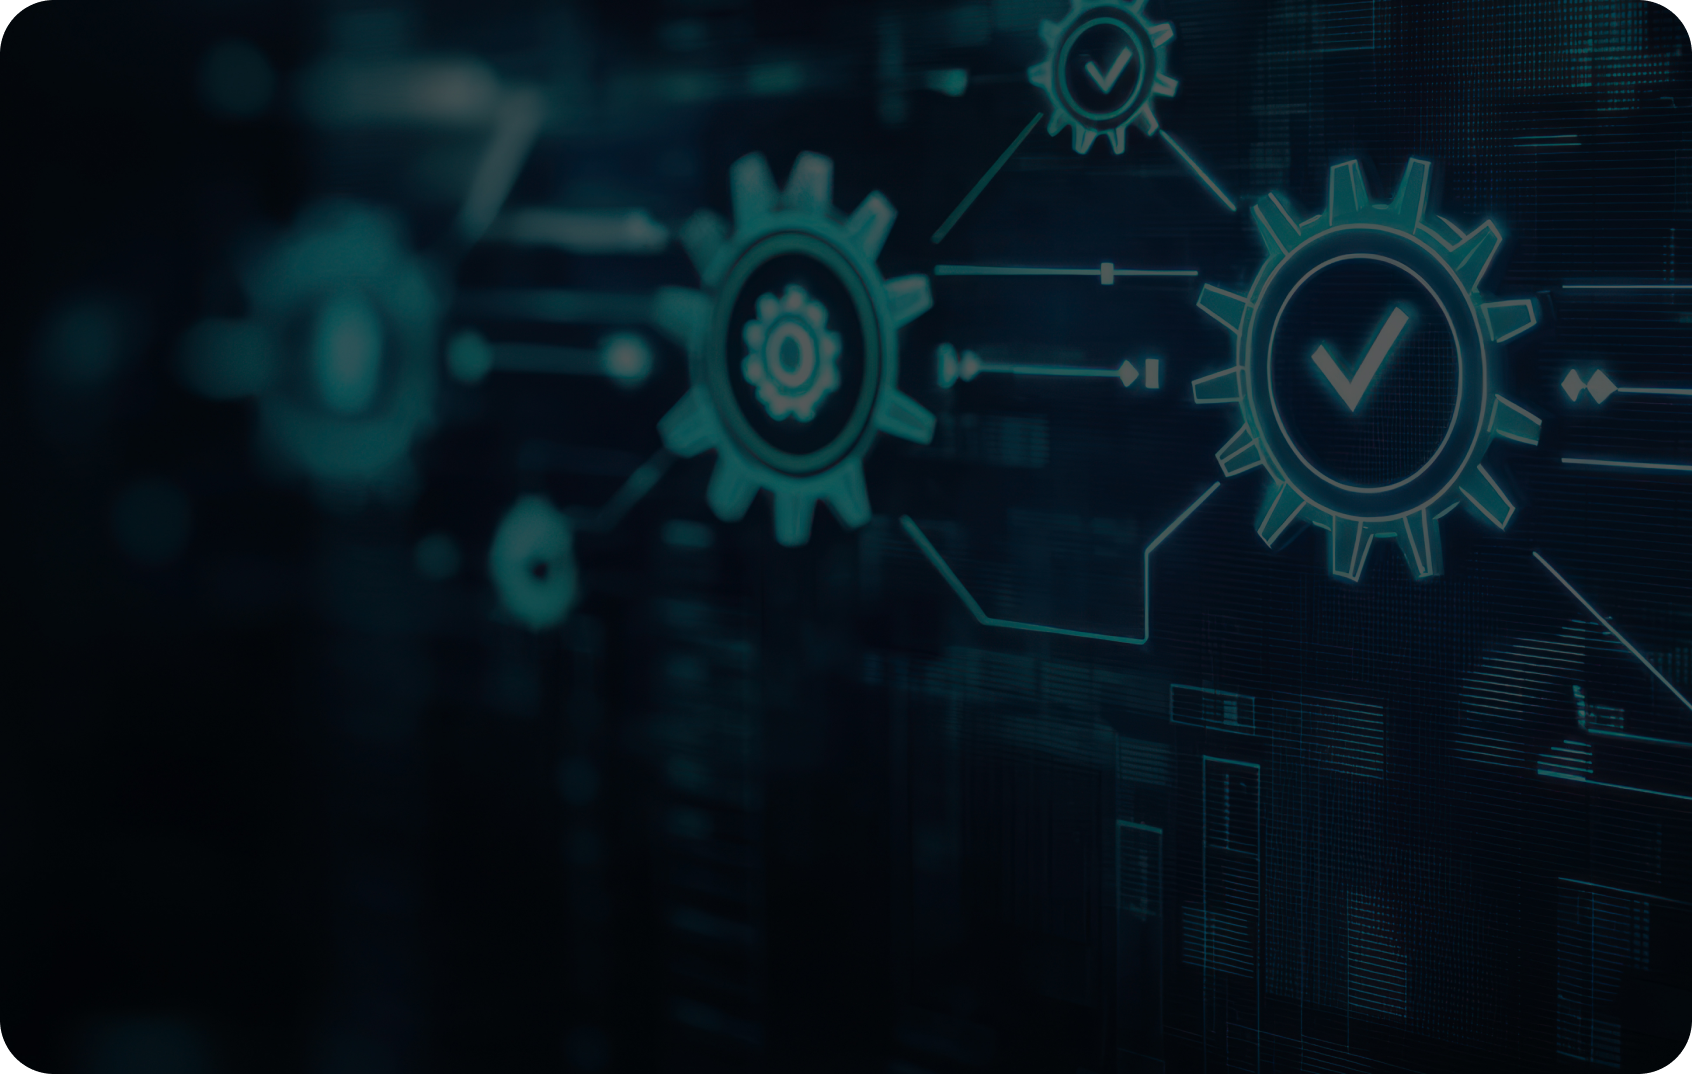
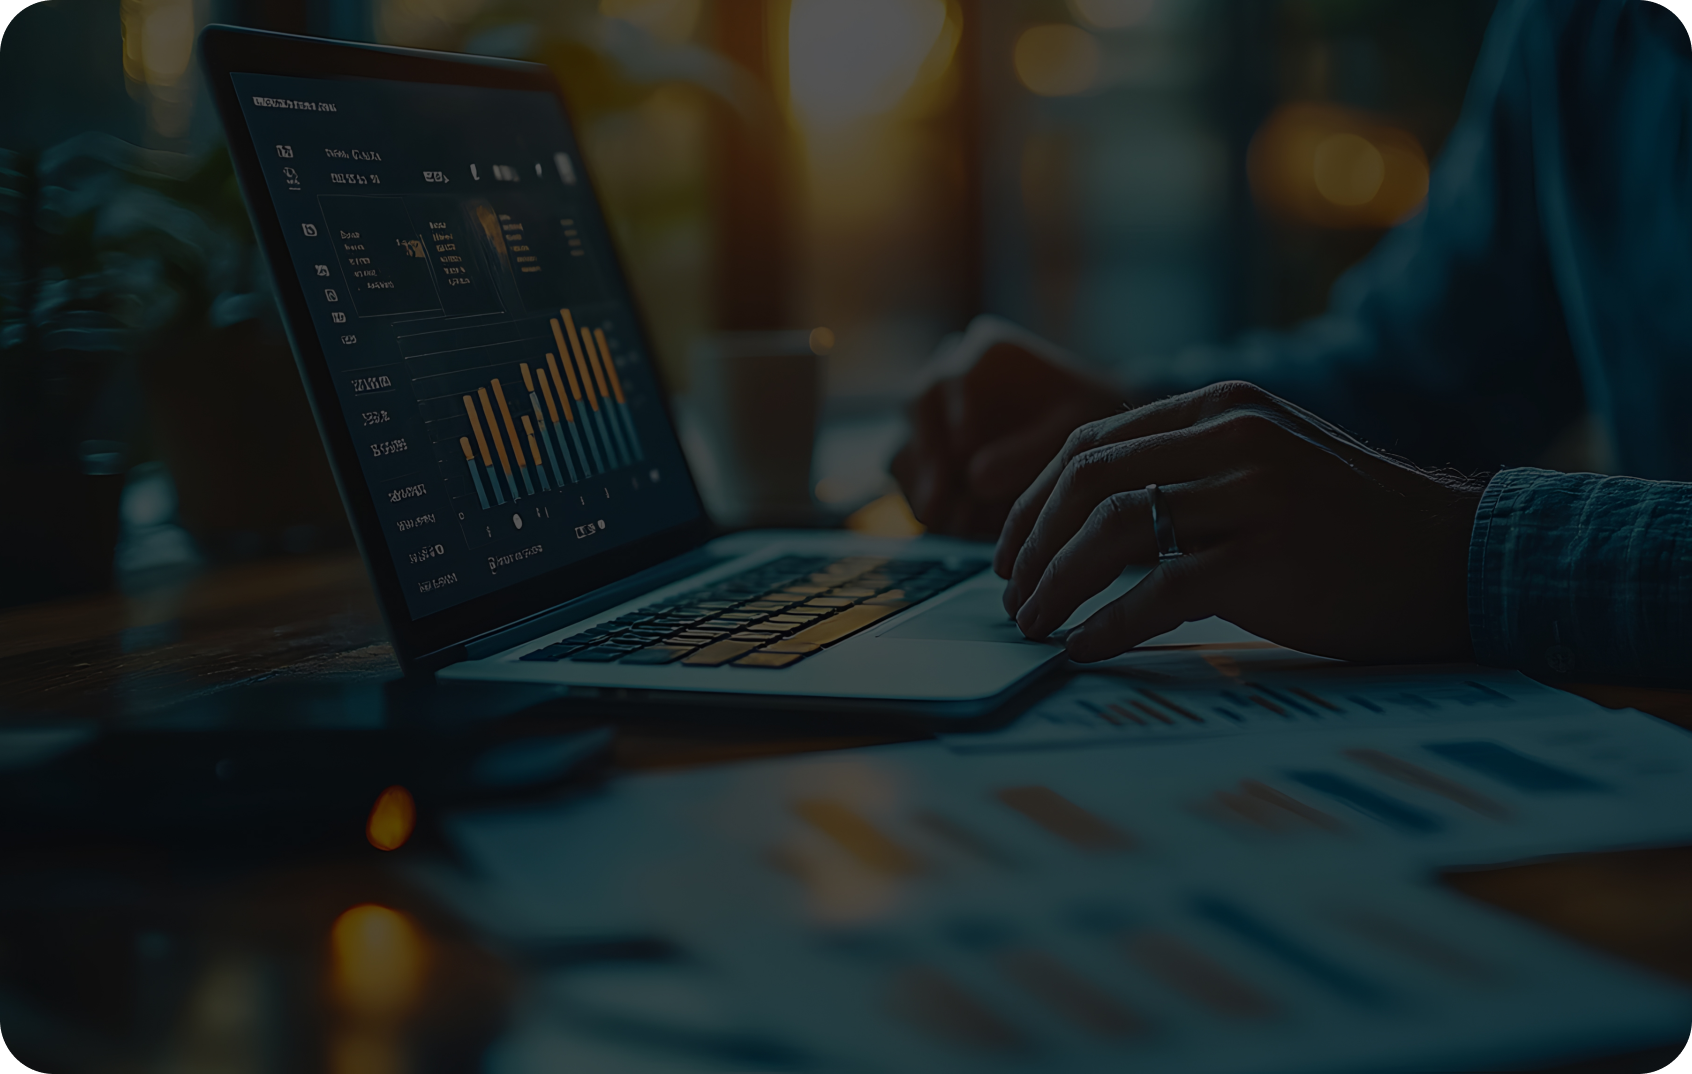
Update program card images to highlight automation features
Replace the image on the middle program card with a new graphic representing automation.

Replit-Commit-Author: Agent
Replit-Commit-Session-Id: af227a3d-d03c-4b2e-a5ce-f8415e2dfcfb
Replit-Commit-Checkpoint-Type: full_checkpoint
Replit-Commit-Event-Id: fb2e1cd8-b285-49c0-98e2-7f14334e7293
Replit-Commit-Screenshot-Url: https://storage.googleapis.com/screenshot-production-us-central1/a3fd29c2-b75a-4c2b-8993-908c3f84ecb6/af227a3d-d03c-4b2e-a5ce-f8415e2dfcfb/0a2OW2W
Replit-Helium-Checkpoint-Created: true

diff --git a/components/Company/HomePage/NewHome/NewHome.js b/components/Company/HomePage/NewHome/NewHome.js
@@ -75,7 +75,7 @@ const NewHome = () => {
       ],
     },
     {
-      img: "/images/HomePage/outcomes-image.png",
+      img: "/images/HomePage/programs-gears.png",
       title: "Manual Work & Workflow Automation Program",
       body:
         "Reduce manual work, streamline approvals, and automate document-driven processes.",